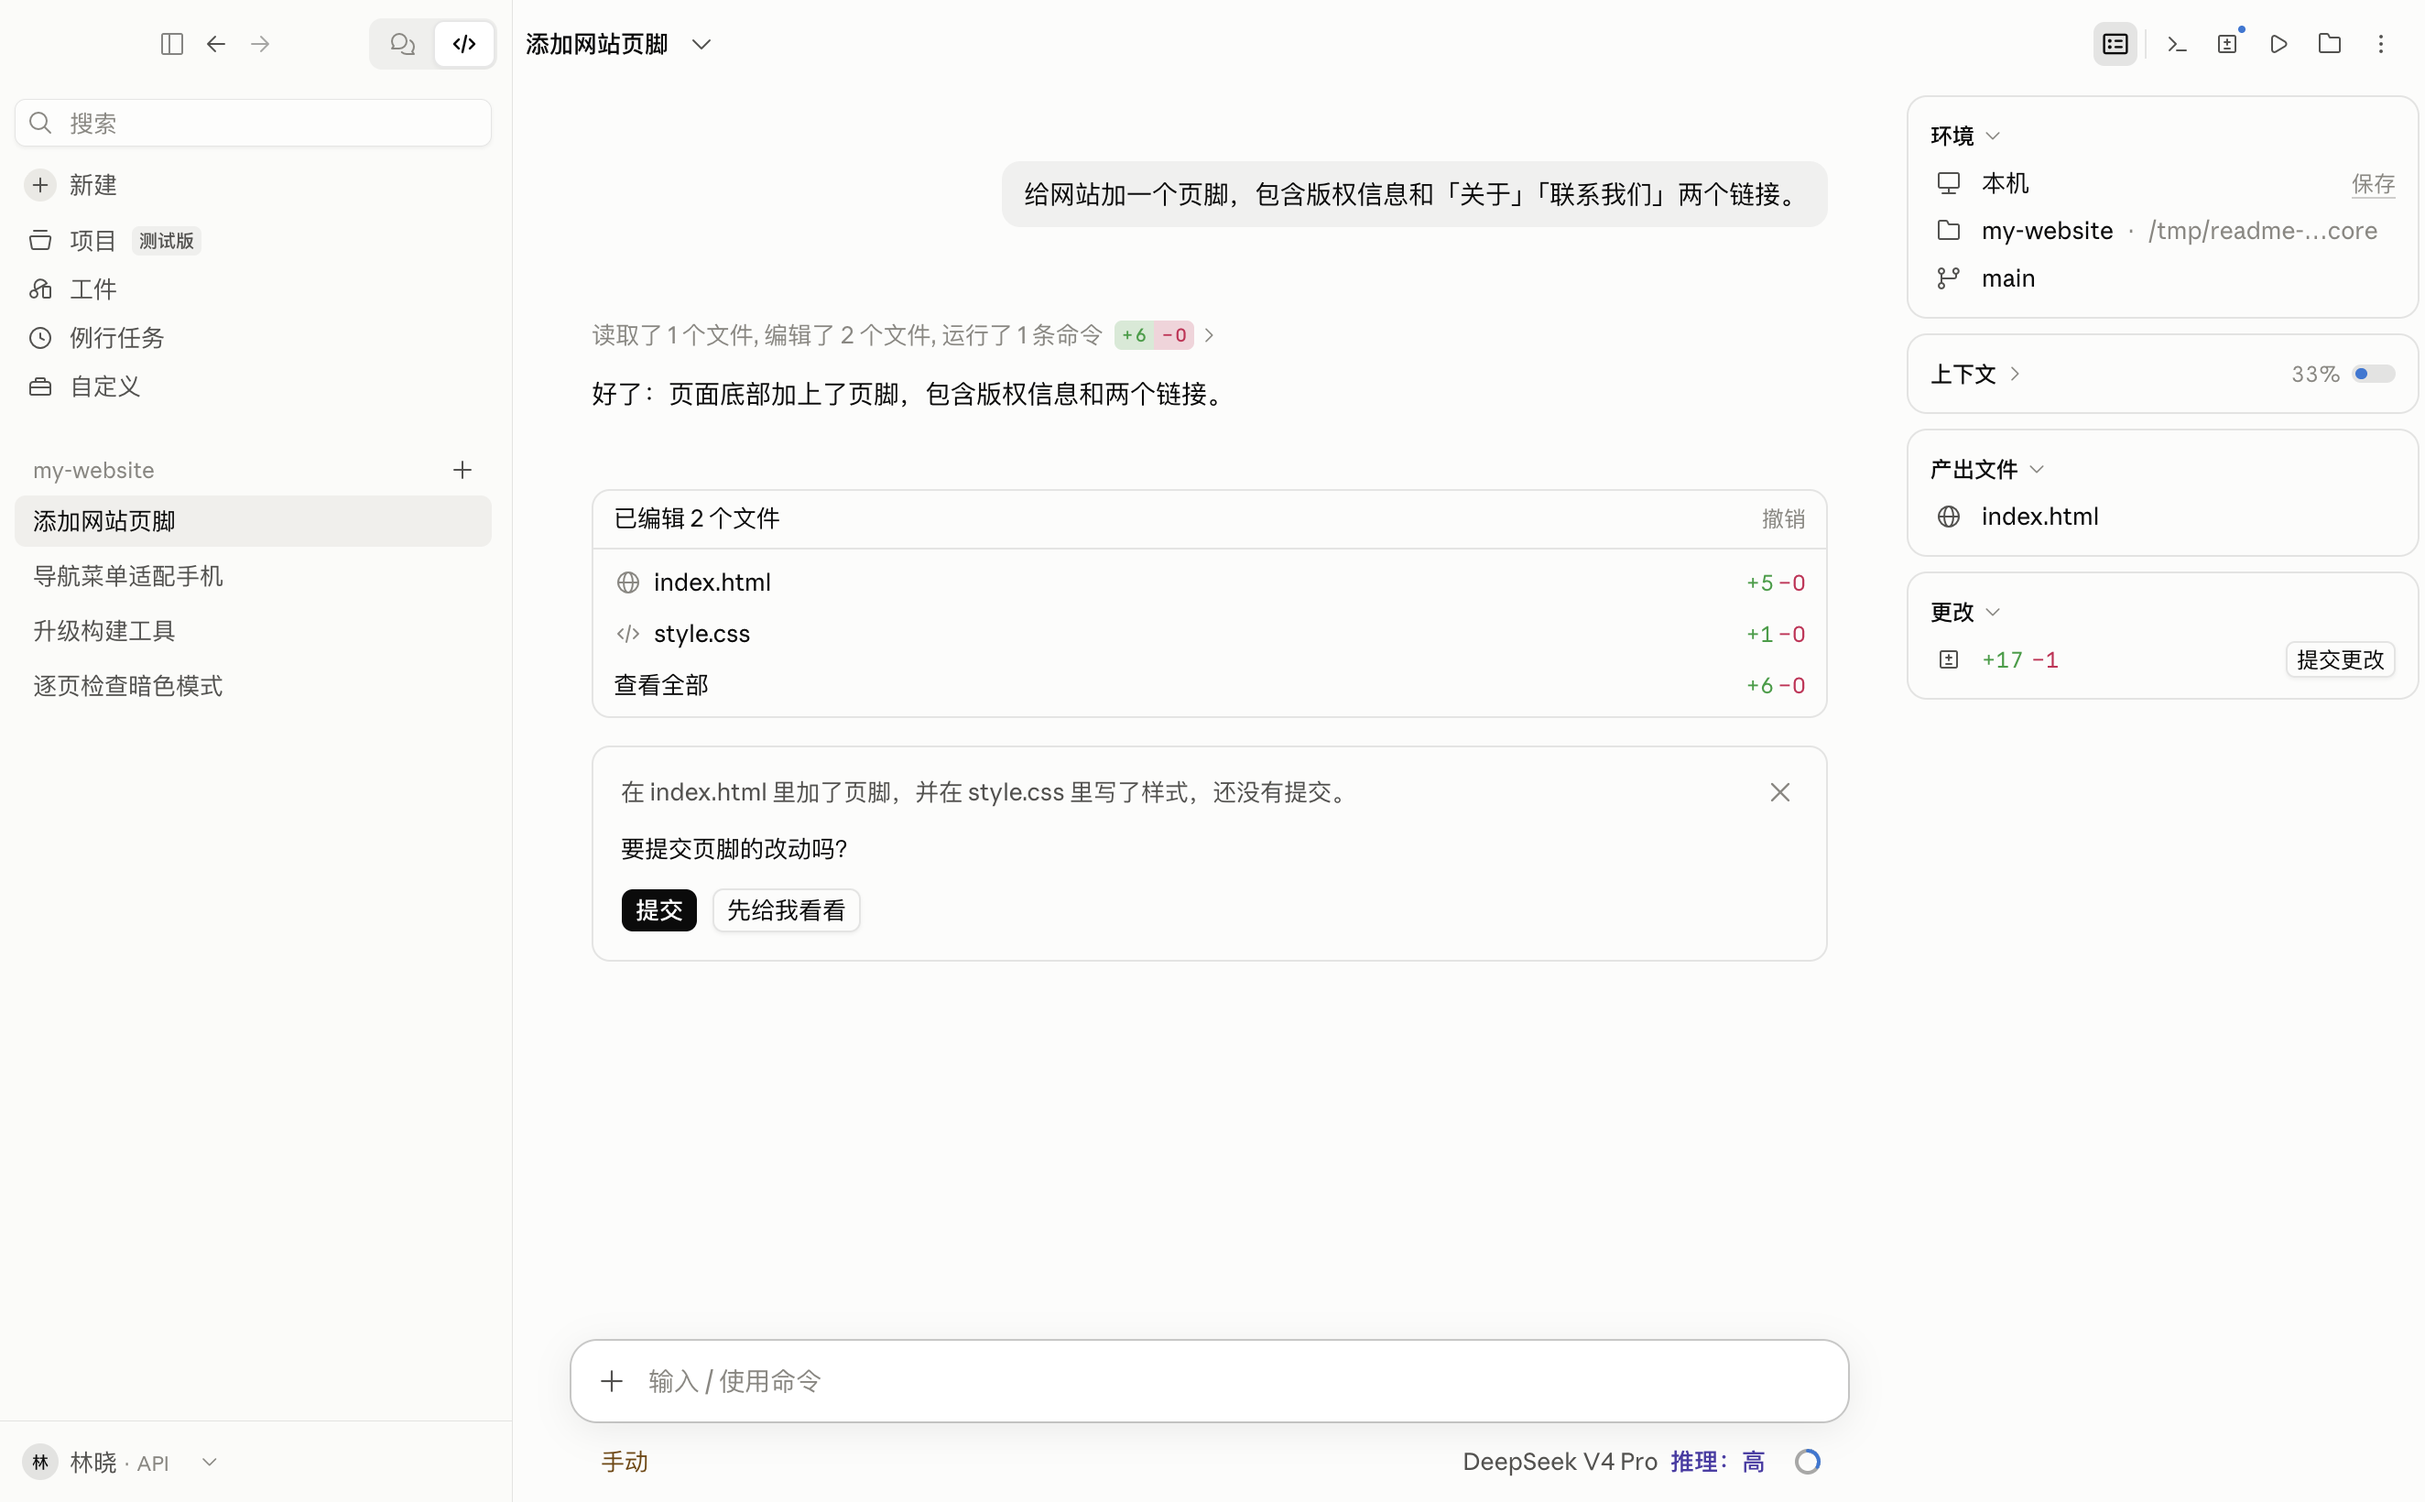
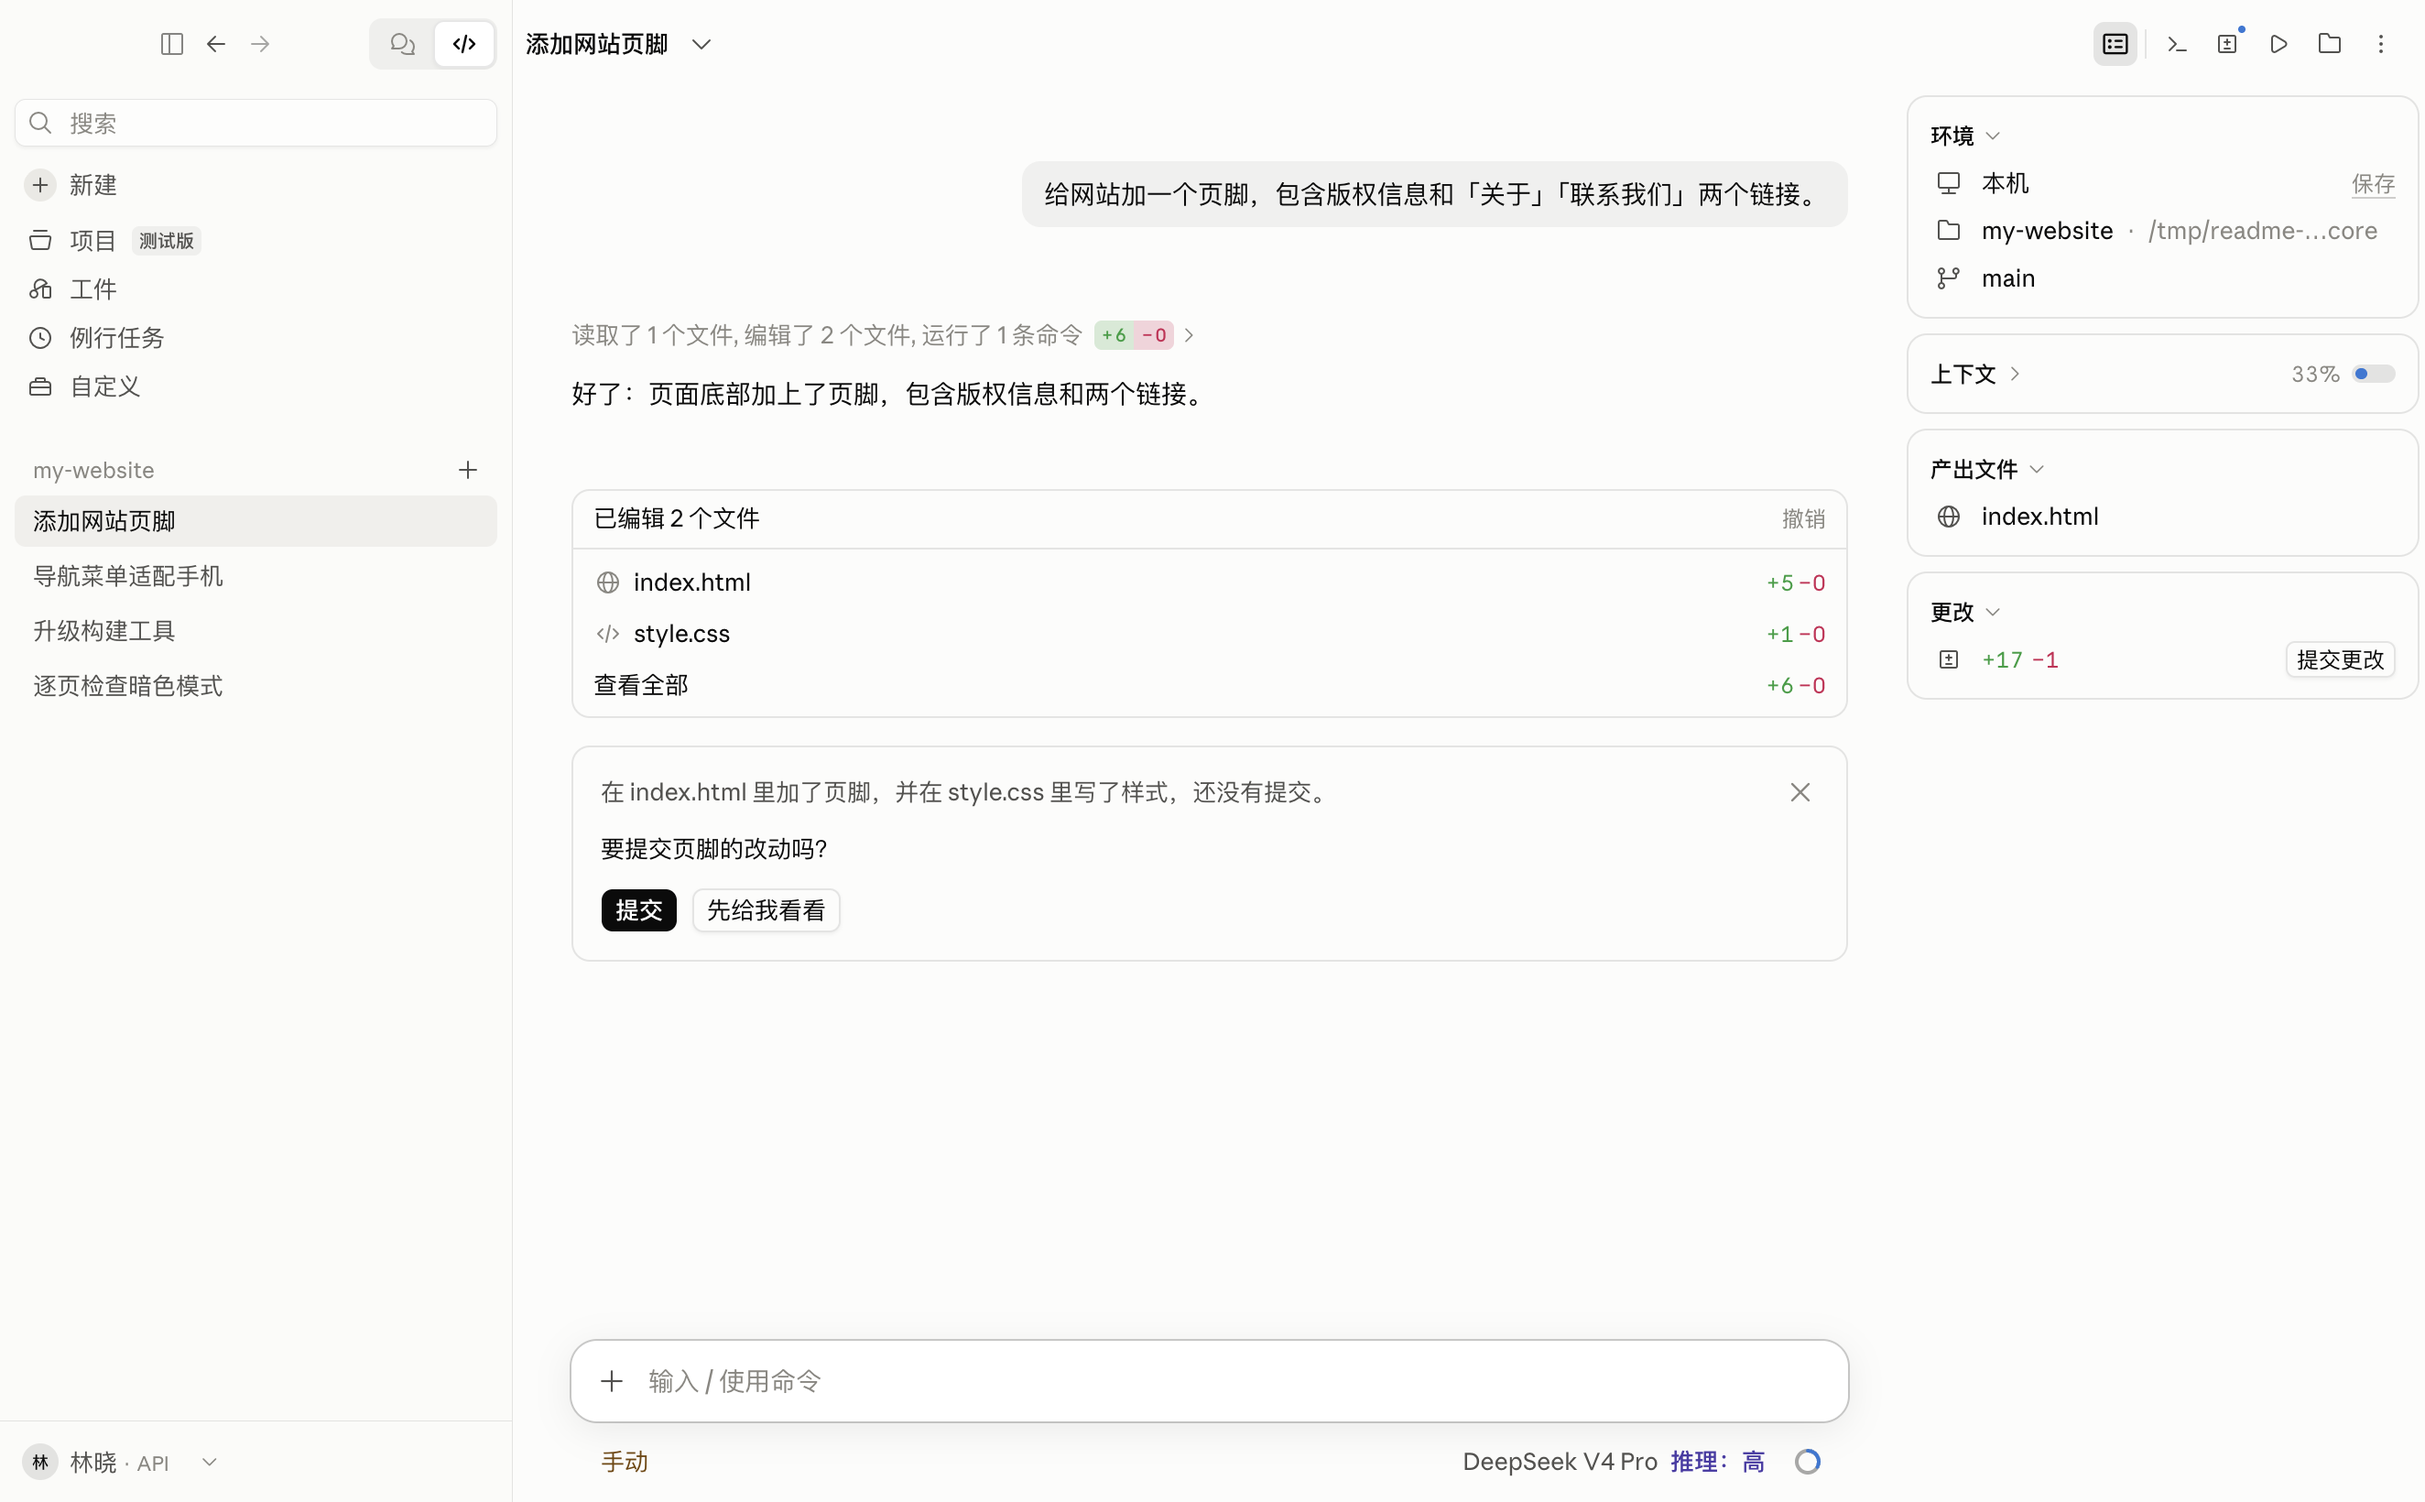
Sync new-2.42304.0 with ui-next: live tool groups, collapsed titlebar clearance

diff --git a/new-2.42304.0/app/src/source-session.jsx b/new-2.42304.0/app/src/source-session.jsx
@@ -756,7 +756,7 @@ export function officialToolItem(item) {
 // tool result bodies are the originals (cb6930dae Tu over the SDK tool call and its result, transcript-sdk-tools.mjs);
 // what the host still draws under a row is an item's deliverables (codeDesktop.artifacts, where the desktop draws the
 // files a tool attached: cb6930dae iu).
-function useToolRunHost({ agentContext, sessionKey, cwd, onOpenFileRef, onOpenChanges, transcriptView, pendingApprovalItemIds, isStreaming, agentNested }) {
+function useToolRunHost({ agentContext, sessionKey, cwd, onOpenFileRef, onOpenChanges, transcriptView, pendingApprovalItemIds, isStreaming, agentNested, liveTail = false }) {
   return useMemo(() => {
     const renderAttachedFiles = (item) => {
       if (!item || !isGenericTool(item)) return null;
@@ -790,9 +790,9 @@ function useToolRunHost({ agentContext, sessionKey, cwd, onOpenFileRef, onOpenCh
     const liveOutputTask = agentContext?.onTask ? (item) => (item?.type === "commandExecution" && item.processId && (item.status === "inProgress" || item.status === "running") ? item.id : undefined) : null;
     const openLiveOutput = agentContext?.onTask ? (taskId) => agentContext.onTask(taskId) : null;
     return { sessionKey, cwd, transcriptView, pendingApprovalItemIds, renderHostRow, renderCard, renderImages, renderMarkdown, renderAttachedFiles, openFilePath, openDiff,
-      liveOutputTask, openLiveOutput,
+      liveOutputTask, openLiveOutput, liveTail: !!liveTail,
       isMcpAppTool: (name) => typeof name === "string" && name.startsWith("mcp__") };
-  }, [agentContext, sessionKey, cwd, onOpenFileRef, onOpenChanges, transcriptView, pendingApprovalItemIds, isStreaming, agentNested]);
+  }, [agentContext, sessionKey, cwd, onOpenFileRef, onOpenChanges, transcriptView, pendingApprovalItemIds, isStreaming, agentNested, liveTail]);
 }
 export { useToolRunHost };
 function SourceOfficialToolMessage(props) {
@@ -803,16 +803,16 @@ function SourceOfficialToolMessage(props) {
   return <SourceToolRun items={[item]} host={host} rest={{ "data-transcript-item-id": item.id, "data-turn-start": props.turnStart || undefined }} />;
 }
 
-export function SourceMessage({ isInterrupting = false, item, agentContext = null, agentNested = false, inToolGroup = false, turnStart = false, isStreaming = false, sessionKey = null, cwd = null, onOpenFileRef = null, onOpenChanges = null, transcriptView = "normal", pendingApprovalItemIds = NO_PENDING_APPROVALS, turnStartedAtMs = null, reasoningPlacement = "standalone", userActions = null, officialChecked = false }) {
+export function SourceMessage({ isInterrupting = false, item, agentContext = null, agentNested = false, inToolGroup = false, turnStart = false, isStreaming = false, sessionKey = null, cwd = null, onOpenFileRef = null, onOpenChanges = null, transcriptView = "normal", pendingApprovalItemIds = NO_PENDING_APPROVALS, turnStartedAtMs = null, reasoningPlacement = "standalone", userActions = null, officialChecked = false, liveTail = false }) {
   if (isHiddenTranscriptItem(item, transcriptView)) return null;
   if (!inToolGroup && !officialChecked && officialToolItem(item))
     return <SourceOfficialToolMessage isInterrupting={isInterrupting} item={item} agentContext={agentContext} agentNested={agentNested} turnStart={turnStart} isStreaming={isStreaming}
       sessionKey={sessionKey} cwd={cwd} onOpenFileRef={onOpenFileRef} onOpenChanges={onOpenChanges} transcriptView={transcriptView} pendingApprovalItemIds={pendingApprovalItemIds}
-      turnStartedAtMs={turnStartedAtMs} reasoningPlacement={reasoningPlacement} userActions={userActions} />;
+      turnStartedAtMs={turnStartedAtMs} reasoningPlacement={reasoningPlacement} userActions={userActions} liveTail={liveTail} />;
   const stepDefaults = { forcedOpen: transcriptView === "verbose", sessionKey };
   if (item.type === "collabAgentToolCall") return <SourceAgentTool item={item} context={agentContext} inGroup={inToolGroup} Step={SourceStep} pendingApprovalItemIds={pendingApprovalItemIds} {...stepDefaults} />;
   if (item.type === "fileToolGroup") return <SourceToolGroup agentContext={agentContext} item={item} pendingApprovalItemIds={pendingApprovalItemIds} transcriptView={transcriptView} isStreaming={isStreaming} agentNested={agentNested}
-    cwd={cwd} sessionKey={sessionKey} onOpenFileRef={onOpenFileRef} onOpenChanges={onOpenChanges}
+    liveTail={liveTail} cwd={cwd} sessionKey={sessionKey} onOpenFileRef={onOpenFileRef} onOpenChanges={onOpenChanges}
     renderItem={member => <SourceMessage agentContext={agentContext} agentNested={agentNested} inToolGroup item={member} turnStart={false} isStreaming={isStreaming} sessionKey={sessionKey} cwd={cwd}
       onOpenFileRef={onOpenFileRef} onOpenChanges={onOpenChanges} transcriptView={transcriptView} pendingApprovalItemIds={pendingApprovalItemIds} />} />;
 

diff --git a/new-2.42304.0/app/src/main.jsx b/new-2.42304.0/app/src/main.jsx
@@ -166,6 +166,7 @@ import { SourceTurnFooter } from "./source-turn-footer.jsx";
 import { SourceChapterHeading, useChapterStoreState } from "./source-chapters.jsx";
 import { chapterStore, pinnedChaptersForRow, reuseChapters, rowSeedText, seedChapterTitle, sessionChapterState, sessionChapters, turnPinAnchor } from "./session-chapters-model.mjs";
 import { isHiddenTranscriptItem } from "./transcript-item-visibility.mjs";
+import { toolRunLiveTail } from "./transcript-rows-model.mjs";
 import { userMessageActions } from "./message-actions-model.mjs";
 import { acceptedSend, failedSend, pendingSend, pendingStillShown, pendingUserRow, retriedSend, withKnownItems } from "./pending-send-model.mjs";
 import { SourceTurnError } from "./source-turn-error.jsx";
@@ -6904,6 +6905,7 @@ function App({ side = 0, initialSession = null }) {
                         cwd={workdir} onOpenFileRef={openFileRef} onOpenChanges={() => { if (!canViewChanges) return false; setPanel("changes"); return true; }} transcriptView={transcriptView} pendingApprovalItemIds={pendingApprovalItems}
                         turnStartedAtMs={item.type === "userMessage" ? turnSecondsToMs(state.turnTimes?.[current]?.[item.turnId]?.startedAt) : null}
                         reasoningPlacement={item.type === "reasoning" ? reasoningPlacement(displayedItems, index, transcriptView) : undefined}
+                        liveTail={toolRunLiveTail(displayedItems, index, running ? state.active[current] ?? null : null, transcriptView)}
                         userActions={item.type === "userMessage" ? userMessageActions({ turnId: item.turnId, itemId: item.id, activeTurnId: state.active[current], running,
                           onRestartFrom: coworkActions?.onRestartFromHere ? (uuid) => void coworkActions.onRestartFromHere({ uuid }) : null,
                           onEditFrom: coworkActions?.onEditMessage ? (uuid) => coworkMessageEdits.start(current, uuid) : null, isLastHuman: !!coworkLastHuman && coworkLastHuman.uuid === item.id,

diff --git a/new-2.42304.0/app/src/source-btw-pane.jsx b/new-2.42304.0/app/src/source-btw-pane.jsx
@@ -13,6 +13,7 @@ import { lastDequeueable } from './queued-messages-model.mjs';
 import { btwDrafts } from './use-btw-pane.jsx';
 import { ownBtwItems } from './btw-pane-controller.mjs';
 import { groupFileTools } from './file-tool-model.mjs';
+import { toolRunLiveTail } from './transcript-rows-model.mjs';
 import { useMcpAppRowGrouping } from './source-mcp-app.jsx';
 import { isItemStreaming, ownerThreadId } from './state.js';
 import { visibleApprovals, isPlanReviewRequest } from './approval-draft-model.mjs';
@@ -228,7 +229,7 @@ export function SourceBtwContent({ sessionId, meta, thread, state, connected, pe
                     the u9 row boundary, gated on the child's own session. */}
                 <SourceTranscriptRowBoundary sessionId={sessionId} item={item} isStreaming={isItemStreaming(state, sessionId, item)}>
                 <SourceMessage item={item} sessionKey={sessionId} cwd={thread?.cwd} isStreaming={isItemStreaming(state, sessionId, item)} turnStart={index === 0 || rows[index - 1].turnId !== item.turnId}
-                  pendingApprovalItemIds={pendingItems} onOpenFileRef={onOpenFile}/></SourceTranscriptRowBoundary>
+                  pendingApprovalItemIds={pendingItems} liveTail={toolRunLiveTail(rows, index, state.active[sessionId] ?? null)} onOpenFileRef={onOpenFile}/></SourceTranscriptRowBoundary>
                 {/* R4i-transcript TR2: the error card is an item of the reply in 2.42304.0 (c96d752d0 `case"error":g(s,VK(n.id,u,"error",`),
                     so it sits in its own row boundary with the reply's copy (D34). Only the card draws actions: the marker
                     gets no callbacks, as the main transcript's does not. The card's own, session-independent actions are the

diff --git a/new-2.42304.0/app/src/source-tool-group.jsx b/new-2.42304.0/app/src/source-tool-group.jsx
@@ -45,11 +45,11 @@ export function SourceToolGroup(props) {
   // labels and outgoing animation snapshots must not cross that boundary.
   return <ToolGroupBody key={identity} {...props} expansionKey={identity}/>;
 }
-function ToolGroupBody({ item, renderItem, pendingApprovalItemIds, transcriptView, agentContext, expansionKey, isStreaming = false, agentNested = false, ...pathProps }) {
+function ToolGroupBody({ item, renderItem, pendingApprovalItemIds, transcriptView, agentContext, expansionKey, isStreaming = false, agentNested = false, liveTail = false, ...pathProps }) {
   const id = useId(), tools = item.toolGroup;
   const statusRows = useTurnStatusRows();
   const host = useToolRunHost({ agentContext, sessionKey: pathProps.sessionKey, cwd: pathProps.cwd, onOpenFileRef: pathProps.onOpenFileRef,
-    onOpenChanges: pathProps.onOpenChanges, transcriptView, pendingApprovalItemIds, isStreaming, agentNested });
+    onOpenChanges: pathProps.onOpenChanges, transcriptView, pendingApprovalItemIds, isStreaming, agentNested, liveTail });
   const remembered=useSyncExternalStore(toolGroupExpansion.subscribe,()=>toolGroupExpansion.get(expansionKey),()=>toolGroupExpansion.get(expansionKey));
   const forcedOpen=transcriptView==='verbose',open=forcedOpen||(remembered??false);
   const [mountedKey,setMountedKey]=useState(open?expansionKey:null);

diff --git a/new-2.42304.0/app/src/source-nav-buttons.css b/new-2.42304.0/app/src/source-nav-buttons.css
@@ -26,6 +26,13 @@
   align-items: center;
   flex: none;
 }
+/* 2.42304.0 shared-styles: the collapsed content reserves the chrome's extent plus 8px before the titlebar
+   (--df-collapsed-chrome-clearance: max(0px, calc(var(--df-trigger-right) + 8px - var(--df-content-gutter-start)))
+   on .dframe-content-inner, applied as the title row's start clearance). The host's chrome sits in the titlebar row,
+   so the same 8px follow it there. */
+.st-toolbar .df-collapsed-chrome {
+  margin-inline-end: 8px;
+}
 .df-collapsed-nav {
   position: relative;
   display: flex;
